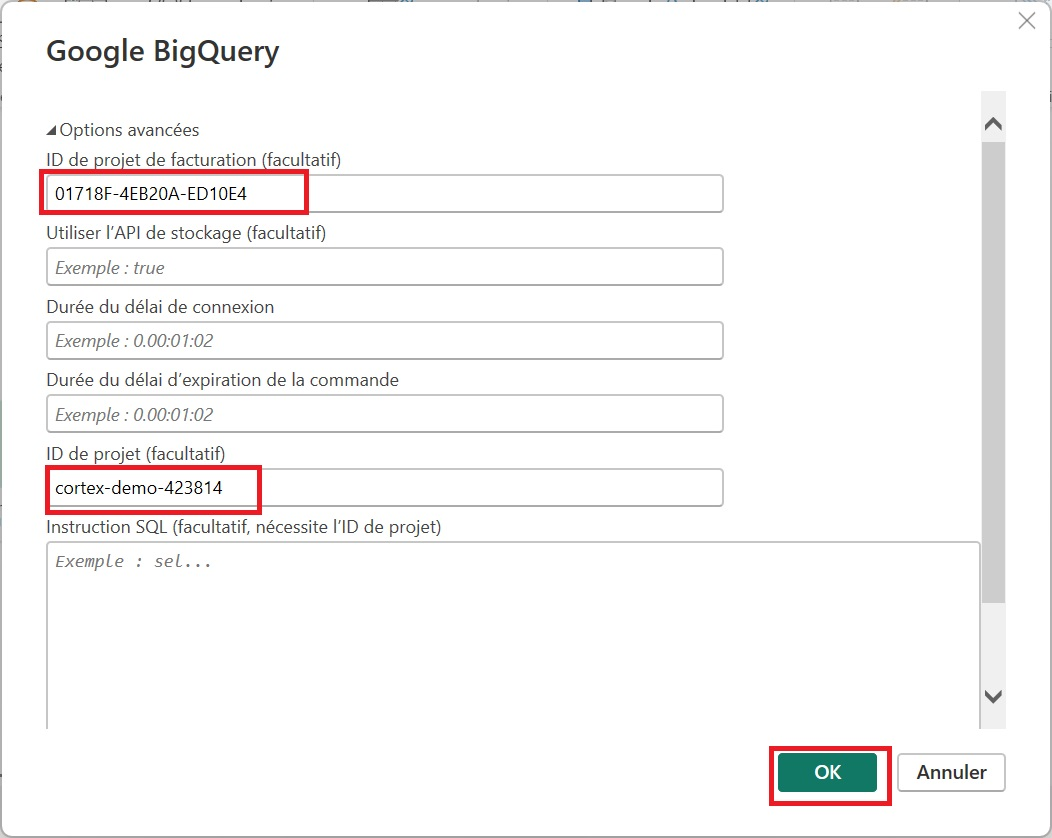
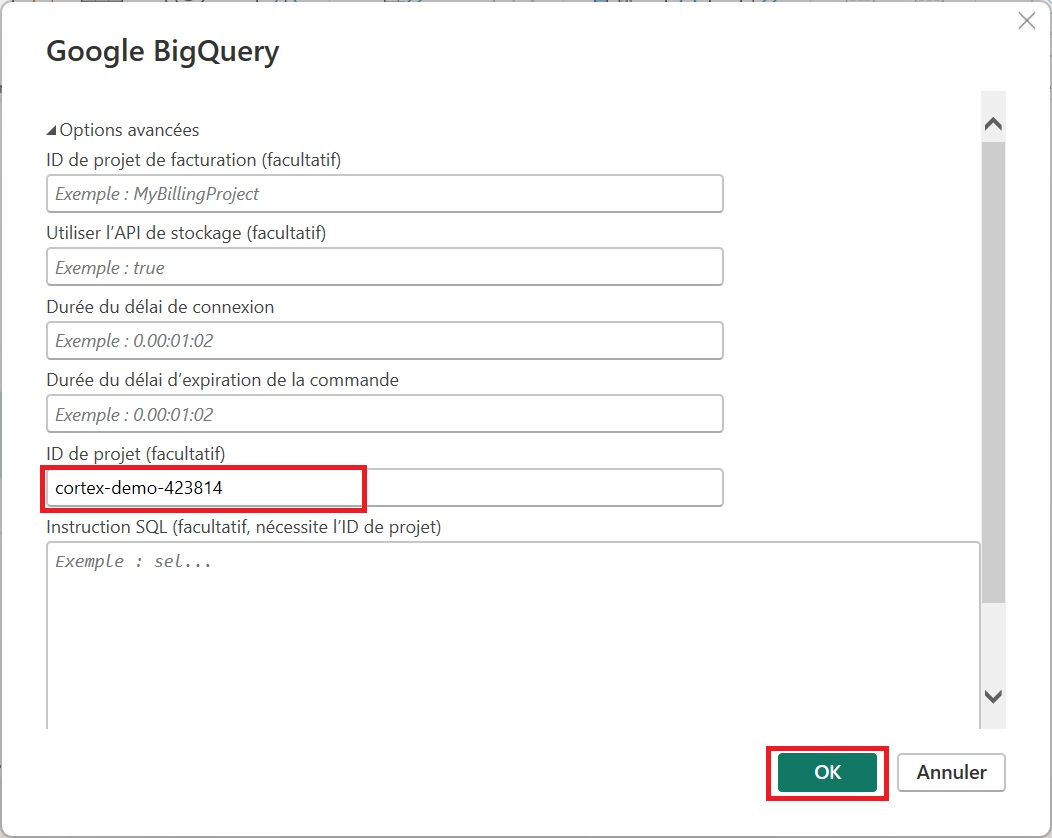
deploy: 7c0163268dad48412349d1efeb7b5cadc58cba35

diff --git a/404.html b/404.html
@@ -5,13 +5,13 @@
     <meta name="viewport" content="width=device-width,initial-scale=1">
     <title>Page Not Found :: My Intership Report</title>
     <meta name="generator" content="Antora 3.1.7">
-    <link rel="stylesheet" href="/_/css/site.css">
+    <link rel="stylesheet" href="/csmi-m2-stage-2024-playbook/_/css/site.css">
   </head>
   <body class="status-404">
 <header class="header">
   <nav class="navbar">
     <div class="navbar-brand">
-      <a class="navbar-item" href="https://docs.demo.com">My Intership Report</a>
+      <a class="navbar-item" href="https://donnescopablo.github.io/csmi-m2-stage-2024-playbook">My Intership Report</a>
       <button class="navbar-burger" aria-controls="topbar-nav" aria-expanded="false" aria-label="Toggle main menu">
         <span></span>
         <span></span>
@@ -22,8 +22,8 @@
       <div class="navbar-end">
         <!-- Existing menu items can go here if needed -->
         <div class="navbar-item">
-          <img src="/_/img/Capgemini_Logo_White_Mono_RGB.svg" alt="Company Logo" style="height: 80px; margin-right: 5px;">
-          <img src="/_/img/Université_de_Strasbourg.svg.png" alt="University Logo" style="height: 50px;">
+          <img src="/csmi-m2-stage-2024-playbook/_/img/Capgemini_Logo_White_Mono_RGB.svg" alt="Company Logo" style="height: 80px; margin-right: 5px;">
+          <img src="/csmi-m2-stage-2024-playbook/_/img/Université_de_Strasbourg.svg.png" alt="University Logo" style="height: 50px;">
         </div>
       </div>
     </div>
@@ -36,10 +36,10 @@
 <div class="nav-panel-explore is-active" data-panel="explore">
   <ul class="components">
     <li class="component">
-      <div class="title"><a href="/report/v1.0/index.html">Report</a></div>
+      <div class="title"><a href="/csmi-m2-stage-2024-playbook/report/v1.0/index.html">Report</a></div>
       <ul class="versions">
         <li class="version is-latest">
-          <a href="/report/v1.0/index.html">v1.0</a>
+          <a href="/csmi-m2-stage-2024-playbook/report/v1.0/index.html">v1.0</a>
         </li>
       </ul>
     </li>
@@ -51,7 +51,7 @@
 <main class="article">
 <div class="toolbar" role="navigation">
 <button class="nav-toggle"></button>
-  <a href="/report/v1.0/index.html" class="home-link"></a>
+  <a href="/csmi-m2-stage-2024-playbook/report/v1.0/index.html" class="home-link"></a>
 <nav class="breadcrumbs" aria-label="breadcrumbs">
 </nav>
 </div>
@@ -73,7 +73,7 @@ If you typed the URL of this page manually, please double check that you entered
   <p>This page was built using the Antora default UI.</p>
   <p>The source code for this UI is licensed under the terms of the MPL-2.0 license.</p>
 </footer>
-<script id="site-script" src="/_/js/site.js" data-ui-root-path="/_"></script>
-<script async src="/_/js/vendor/highlight.js"></script>
+<script id="site-script" src="/csmi-m2-stage-2024-playbook/_/js/site.js" data-ui-root-path="/csmi-m2-stage-2024-playbook/_"></script>
+<script async src="/csmi-m2-stage-2024-playbook/_/js/vendor/highlight.js"></script>
   </body>
 </html>

diff --git a/report/v1.0/tasks-and-contributions/cortex.html b/report/v1.0/tasks-and-contributions/cortex.html
@@ -4,7 +4,7 @@
     <meta charset="utf-8">
     <meta name="viewport" content="width=device-width,initial-scale=1">
     <title>Google Cortex Framework :: My Intership Report</title>
-    <link rel="canonical" href="https://docs.demo.com/report/v1.0/tasks-and-contributions/cortex.html">
+    <link rel="canonical" href="https://donnescopablo.github.io/csmi-m2-stage-2024-playbook/report/v1.0/tasks-and-contributions/cortex.html">
     <meta name="generator" content="Antora 3.1.7">
     <link rel="stylesheet" href="../../../_/css/site.css">
   </head>
@@ -12,7 +12,7 @@
 <header class="header">
   <nav class="navbar">
     <div class="navbar-brand">
-      <a class="navbar-item" href="https://docs.demo.com">My Intership Report</a>
+      <a class="navbar-item" href="https://donnescopablo.github.io/csmi-m2-stage-2024-playbook">My Intership Report</a>
       <button class="navbar-burger" aria-controls="topbar-nav" aria-expanded="false" aria-label="Toggle main menu">
         <span></span>
         <span></span>
@@ -2329,7 +2329,7 @@ connect to BigQuery from Microsoft Power BI.</p>
 <p><span class="image"><img src="_images/cortex/89.jpg" alt="Illustration 89"></span></p>
 </div>
 <div class="paragraph">
-<p>Then fill in the billing project ID and the project ID as shown in the image below and click on <code>OK</code>.</p>
+<p>Then fill in the project ID as shown in the image below and click on <code>OK</code>.</p>
 </div>
 <div class="paragraph">
 <p><span class="image"><img src="_images/cortex/90.jpg" alt="Illustration 90"></span></p>
@@ -2412,8 +2412,17 @@ CALCULATE(
 <p><span class="image"><img src="_images/cortex/95.jpg" alt="Illustration 95"></span></p>
 </div>
 <div class="paragraph">
-<p>Then in the <code>Données</code> panel, drag and drop the <code>Sales Orders Count Orders</code> measure to the
+<p>Then in the <code>Visualisations</code> panel, double-click on the <code>carte</code> visualization as show bellow.</p>
+</div>
+<div class="paragraph">
+<p><span class="image"><img src="_images/cortex/96.jpg" alt="Illustration 96"></span></p>
+</div>
+<div class="paragraph">
+<p>In the <code>Données</code> panel, drag and drop the <code>Sales Orders Count Orders</code> measure to the
 report area.</p>
+</div>
+<div class="paragraph">
+<p><span class="image"><img src="_images/cortex/97.jpg" alt="Illustration 97"></span></p>
 </div>
 <div class="admonitionblock note">
 <table>

diff --git a/report/v1.0/tasks-and-contributions/description.html b/report/v1.0/tasks-and-contributions/description.html
@@ -4,7 +4,7 @@
     <meta charset="utf-8">
     <meta name="viewport" content="width=device-width,initial-scale=1">
     <title>Tasks and contributions :: My Intership Report</title>
-    <link rel="canonical" href="https://docs.demo.com/report/v1.0/tasks-and-contributions/description.html">
+    <link rel="canonical" href="https://donnescopablo.github.io/csmi-m2-stage-2024-playbook/report/v1.0/tasks-and-contributions/description.html">
     <meta name="generator" content="Antora 3.1.7">
     <link rel="stylesheet" href="../../../_/css/site.css">
   </head>
@@ -12,7 +12,7 @@
 <header class="header">
   <nav class="navbar">
     <div class="navbar-brand">
-      <a class="navbar-item" href="https://docs.demo.com">My Intership Report</a>
+      <a class="navbar-item" href="https://donnescopablo.github.io/csmi-m2-stage-2024-playbook">My Intership Report</a>
       <button class="navbar-burger" aria-controls="topbar-nav" aria-expanded="false" aria-label="Toggle main menu">
         <span></span>
         <span></span>

diff --git a/report/v1.0/index.html b/report/v1.0/index.html
@@ -4,7 +4,7 @@
     <meta charset="utf-8">
     <meta name="viewport" content="width=device-width,initial-scale=1">
     <title>Home :: My Intership Report</title>
-    <link rel="canonical" href="https://docs.demo.com/report/v1.0/index.html">
+    <link rel="canonical" href="https://donnescopablo.github.io/csmi-m2-stage-2024-playbook/report/v1.0/index.html">
     <meta name="generator" content="Antora 3.1.7">
     <link rel="stylesheet" href="../../_/css/site.css">
   </head>
@@ -12,7 +12,7 @@
 <header class="header">
   <nav class="navbar">
     <div class="navbar-brand">
-      <a class="navbar-item" href="https://docs.demo.com">My Intership Report</a>
+      <a class="navbar-item" href="https://donnescopablo.github.io/csmi-m2-stage-2024-playbook">My Intership Report</a>
       <button class="navbar-burger" aria-controls="topbar-nav" aria-expanded="false" aria-label="Toggle main menu">
         <span></span>
         <span></span>

diff --git a/index.html b/index.html
@@ -1,9 +1,9 @@
 <!DOCTYPE html>
 <meta charset="utf-8">
-<link rel="canonical" href="https://docs.demo.com/report/v1.0/index.html">
+<link rel="canonical" href="https://donnescopablo.github.io/csmi-m2-stage-2024-playbook/report/v1.0/index.html">
 <script>location="report/v1.0/index.html"</script>
 <meta http-equiv="refresh" content="0; url=report/v1.0/index.html">
 <meta name="robots" content="noindex">
 <title>Redirect Notice</title>
 <h1>Redirect Notice</h1>
-<p>The page you requested has been relocated to <a href="report/v1.0/index.html">https://docs.demo.com/report/v1.0/index.html</a>.</p>
+<p>The page you requested has been relocated to <a href="report/v1.0/index.html">https://donnescopablo.github.io/csmi-m2-stage-2024-playbook/report/v1.0/index.html</a>.</p>
